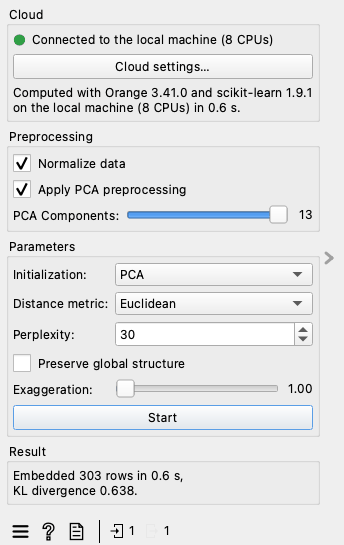
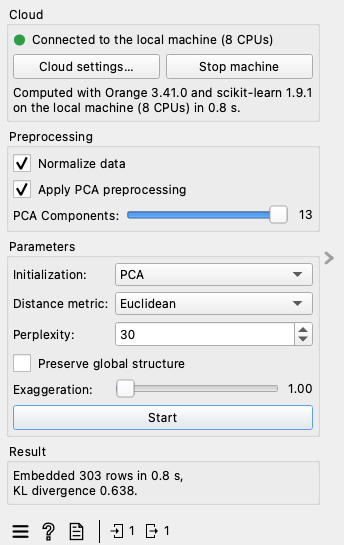
Docs: screenshots show the Stop machine button
The Cloud widgets' help pages and the taxi demo's screenshots are taken
again, so their Cloud box shows Stop machine next to Cloud settings. The
taxi demo ran again on a Medium machine for its screenshots, and its
timings in docs/demo-taxi.md and the README are now that run's.

diff --git a/docs/demo-taxi.md b/docs/demo-taxi.md
@@ -2,7 +2,7 @@
 
 `examples/taxi-demo.ows` explores and models every yellow taxi trip in New York City in 2025, about 48.7 million of them, on a cloud machine: when people tip and how much, how distance and fare go together, what kinds of trips there are, and whether a trip paid by card gets a tip. Orange's own widgets change the data (Feature Constructor, Select Rows, Select Columns), and Cloud widgets look at it and compute on it, all on all rows.
 
-The data is the trip records of the [NYC Taxi and Limousine Commission](https://www.nyc.gov/site/tlc/about/tlc-trip-record-data.page) (TLC): twelve monthly Parquet files, 0.8 GB together. Orange's File widget can't read Parquet; as CSV, the year is 4.2 GB, and Orange on a laptop with 16 GB of memory can't load it. On a Medium cloud machine the whole workflow takes about 45 minutes and costs about $0.60.
+The data is the trip records of the [NYC Taxi and Limousine Commission](https://www.nyc.gov/site/tlc/about/tlc-trip-record-data.page) (TLC): twelve monthly Parquet files, 0.8 GB together. Orange's File widget can't read Parquet; as CSV, the year is 4.2 GB, and Orange on a laptop with 16 GB of memory can't load it. On a Medium cloud machine the whole workflow takes about 35 minutes and costs about $0.50.
 
 ![The taxi demo workflow in Orange](images/taxi-workflow.png)
 
@@ -50,25 +50,25 @@ Cloud: Medium on Google Cloud (`n2-standard-16`, 16 vCPUs, 64 GB) in `us-central
 | | Laptop, January | Laptop, 2 months | Laptop, 4 months | Laptop, the year | Cloud, Medium, the year |
 |---|---:|---:|---:|---:|---:|
 | Trips | 3.5M | 7.1M | 15.2M | 48.7M | 48.7M |
-| Load (File, Cloud File) | 49 s | 1 min 40 s | 4 min 20 s | **out of memory**: stopped after 7 min | 47 s |
-| Feature Constructor and Select Rows | 10 s | 18 s | 40 s | – | 7 min 18 s |
+| Load (File, Cloud File) | 49 s | 1 min 40 s | 4 min 20 s | **out of memory**: stopped after 7 min | 50 s |
+| Feature Constructor and Select Rows | 10 s | 18 s | 40 s | – | 6 min 58 s |
 | Distributions | 3 s | 6 s | 13 s | – | 3 s |
-| Scatter Plot | 27 s | 55 s | 2 min 15 s | – | 6 s |
-| k-Means | 6 s | 10 s | 21 s | – | 1 min 58 s |
+| Scatter Plot | 27 s | 55 s | 2 min 15 s | – | 5 s |
+| k-Means | 6 s | 10 s | 21 s | – | 1 min 54 s |
 | Card Trips and the Box Plots | 2 s | 4 s | 10 s | – | 8 s |
-| Test & Score (3 folds) | 1 min 44 s | 3 min 25 s | 9 min 8 s | – | 31 min 35 s |
-| All steps | 3 min 23 s | 6 min 42 s | 17 min 11 s | – | 41 min 55 s |
+| Test & Score (3 folds) | 1 min 44 s | 3 min 25 s | 9 min 8 s | – | 30 min 28 s |
+| All steps | 3 min 23 s | 6 min 42 s | 17 min 11 s | – | 34 min 33 s |
 | Memory | no swap | no swap | 5.1 GB of swap | 8.7 GB of swap | 49 of 64 GB |
 | AUC: logistic regression / forest | 0.715 / 0.719 | 0.713 / 0.718 | 0.711 / 0.715 | – | 0.749 / 0.752 |
 
-On the cloud machine, starting it took 74 s and the whole workflow 42 minutes: every view of the 48.7 million trips, from Cloud File to the box plots, was ready after 10.5 minutes, and the cross-validation took the other 31.5. The machine ran for 44.5 minutes in all, about $0.59: Feature Constructor and Select Rows cost $0.10, k-Means $0.03, Test & Score $0.42, and each of the other steps less than a cent. Each Cloud widget shows its own time and cost.
+On the cloud machine, starting it took 70 s and the whole workflow 34.5 minutes: every view of the 48.7 million trips, from Cloud File to the box plots, was ready after 10 minutes, and the cross-validation ended 24.5 minutes later. Test & Score shows 30.5 minutes because its job started about 4 minutes in and waited there for the steps before it, so the steps add up to more than the whole workflow. The machine ran for 37 minutes in all, about $0.49: Feature Constructor and Select Rows cost $0.09, k-Means $0.03, Test & Score $0.40, and each of the other steps less than a cent. Each Cloud widget shows its own time and cost.
 
 What this shows:
 
 - **The laptop can't hold the year.** Four months (15 million trips) already make the 16 GB Mac swap 5 GB, and the year runs out of memory before File has loaded it.
-- **The cloud machine looks at every trip in seconds.** It loads the year in 47 s, and its viewers compute on 43.5 million trips in 2–6 s each, about as fast as the laptop draws one month.
+- **The cloud machine looks at every trip in seconds.** It loads the year in 50 s, and its viewers compute on 43.5 million trips in 2–5 s each, about as fast as the laptop draws one month.
 - **Feature Constructor is the slow step on the machine.** Orange computes its expressions row by row in Python, on one core, and the machine checks the new categorical columns once more on all rows, so the five new columns took 7 minutes. It runs once for all four branches of the workflow.
-- **Cross-validation runs one part at a time on a Medium machine.** Each part (a learner on two thirds of the 30.2 million card trips) needed 23–27 GB of memory, so the six parts ran one after another; a machine with more memory runs them side by side. Logistic regression took 20 minutes of the 31, the forest 4.
+- **Cross-validation runs one part at a time on a Medium machine.** Each part (a learner on two thirds of the 30.2 million card trips) needed 23–27 GB of memory, so the six parts ran one after another; a machine with more memory runs them side by side. Logistic regression took 20 of its 24 minutes, the forest 3.5.
 - **The year gives a better model.** Both learners reach an AUC of 0.75 on the whole year, against 0.71–0.72 on its first months.
 
 ## The data

diff --git a/README.md b/README.md
@@ -61,9 +61,9 @@ The [taxi demo](docs/demo-taxi.md) explores and models every yellow taxi trip in
 | Laptop (M1, 16 GB) | January, 3.5 million | 49 s | 3 min 23 s | 0.715 / 0.719 |
 | Laptop (M1, 16 GB) | 4 months, 15.2 million | 4 min 20 s | 17 min 11 s (swapping) | 0.711 / 0.715 |
 | Laptop (M1, 16 GB) | the year, 48.7 million | out of memory | not possible | – |
-| Cloud, Medium | the year, 48.7 million | 47 s | 41 min 55 s | 0.749 / 0.752 |
+| Cloud, Medium | the year, 48.7 million | 50 s | 34 min 33 s | 0.749 / 0.752 |
 
-The cloud machine ran on Google Cloud for 44.5 minutes in all, start included, for about $0.59. [docs/demo-taxi.md](docs/demo-taxi.md) has the details of these timings, what each widget shows, and screenshots.
+The cloud machine ran on Google Cloud for 37 minutes in all, start included, for about $0.49. [docs/demo-taxi.md](docs/demo-taxi.md) has the details of these timings, what each widget shows, and screenshots.
 
 ## Far beyond a laptop: 11 million rows
 
